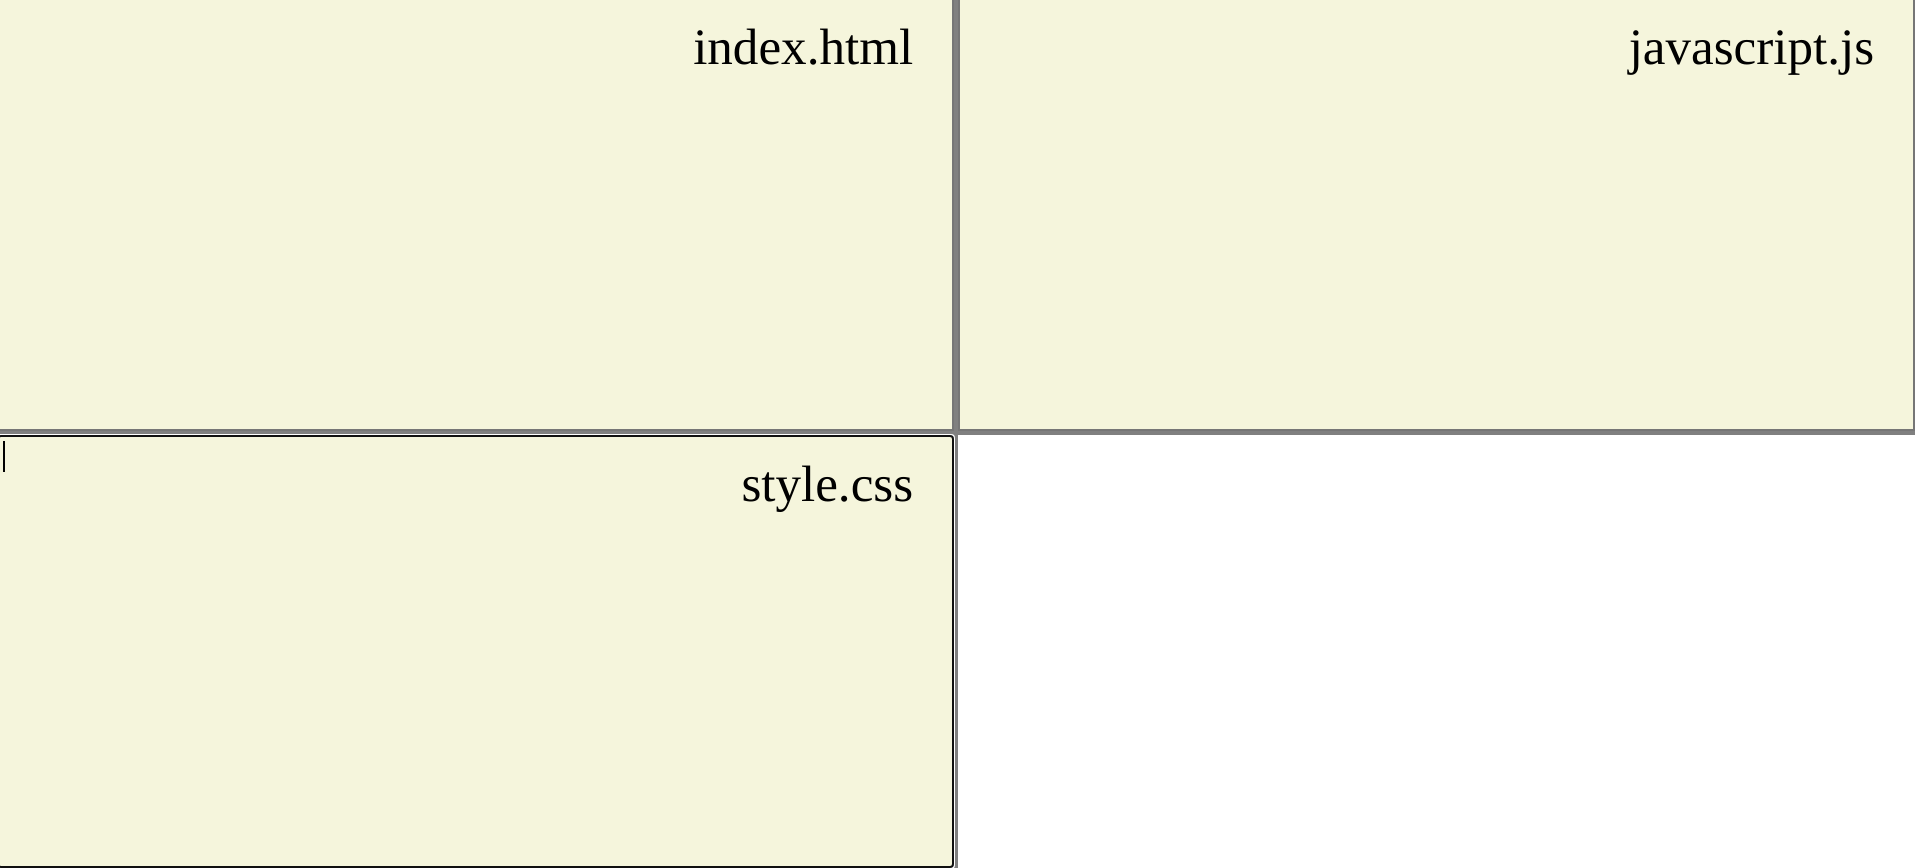
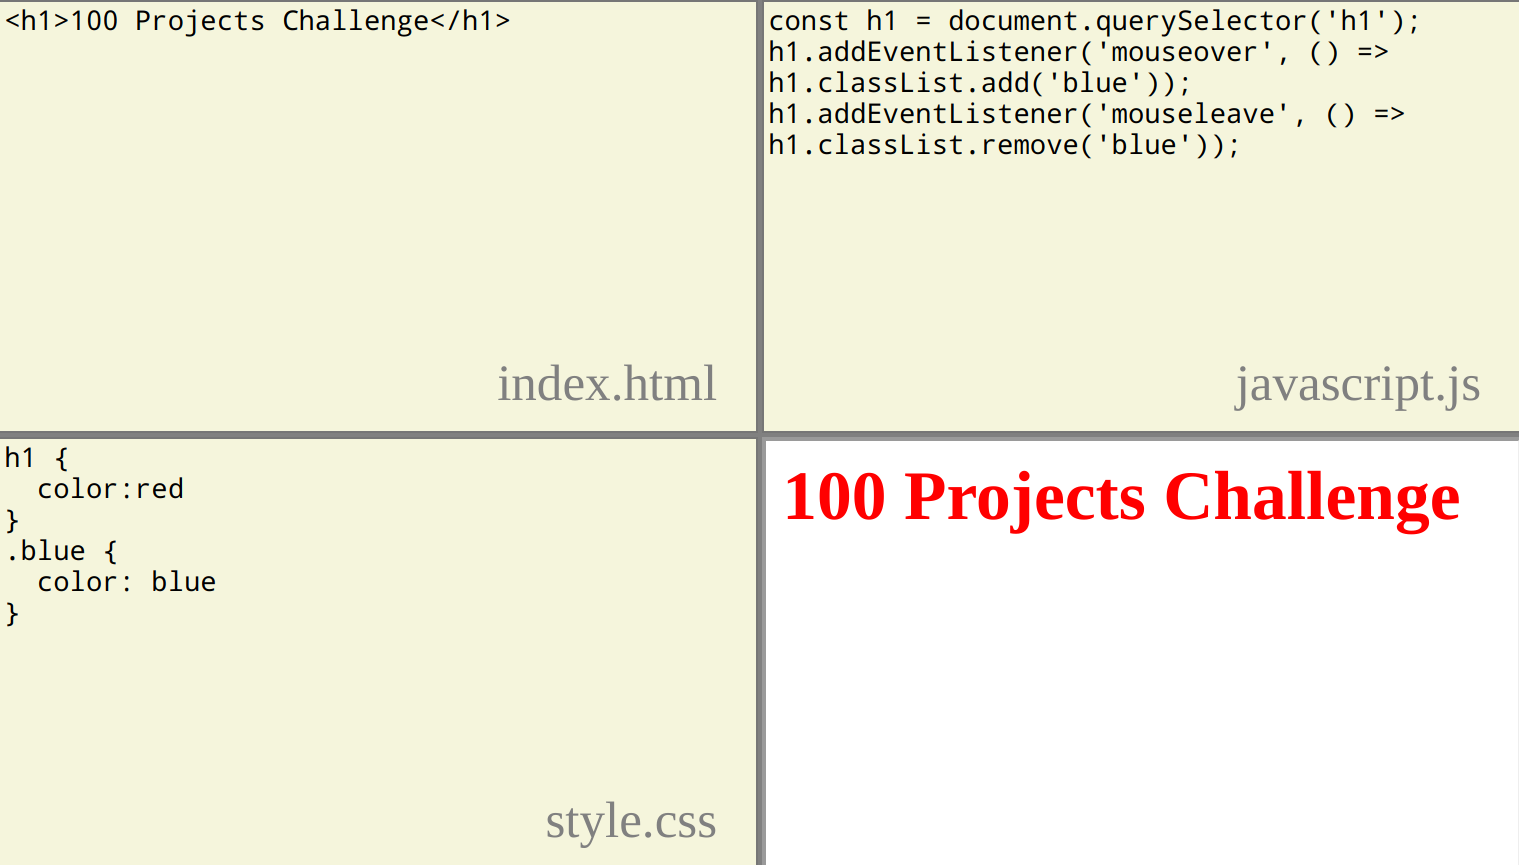
code editor complete

diff --git a/code-editor/script.js b/code-editor/script.js
@@ -1,4 +1,4 @@
-document.querySelectorAll('textarea').forEach((el) =>
+document.querySelectorAll('textarea').forEach((el) => {
   el.addEventListener('keydown', function (e) {
     if (e.key === 'Tab') {
       e.preventDefault();
@@ -14,5 +14,23 @@ document.querySelectorAll('textarea').forEach((el) =>
       this.selectionStart = nextSelectionStart;
       this.selectionEnd = nextSelectionStart;
     }
-  })
-);
+  });
+  el.addEventListener('keyup', updateIframe);
+});
+
+function updateIframe() {
+  const mountedPoint = document.querySelector('[data-iframe]');
+  const html = document.querySelector('.square-html>textarea').value;
+  const css = document.querySelector('.square-css>textarea').value;
+  const javascript = document.querySelector('.square-javascript>textarea')
+    .value;
+
+  const page = `${html}<style>${css}</style><script>${javascript}</script>`;
+
+  const iframe = document.createElement('iframe');
+  iframe.src = 'data:text/html;charset=utf-8,' + page;
+  mountedPoint.innerHTML = '';
+  mountedPoint.append(iframe);
+}
+
+updateIframe();

diff --git a/code-editor/index.html b/code-editor/index.html
@@ -22,13 +22,24 @@
   <body>
     <div id="app">
       <div class="square square-titled square-html">
-        <textarea></textarea>
+        <textarea><h1>100 Projects Challenge</h1></textarea>
       </div>
       <div class="square square-titled square-javascript">
-        <textarea></textarea>
+        <textarea>
+const h1 = document.querySelector('h1');
+h1.addEventListener('mouseover', () => h1.classList.add('blue'));
+h1.addEventListener('mouseleave', () => h1.classList.remove('blue'));</textarea
+        >
       </div>
       <div class="square square-titled square-css">
-        <textarea></textarea>
+        <textarea>
+h1 {
+  color:red
+} 
+.blue {
+  color: blue
+}</textarea
+        >
       </div>
       <div class="square" data-iframe></div>
     </div>

diff --git a/code-editor/style.css b/code-editor/style.css
@@ -32,8 +32,8 @@ body {
 .square-titled::after {
   position: absolute;
   right: 20px;
-  top: 10px;
-  color: black;
+  bottom: 10px;
+  color: gray;
   font-size: 25px;
 }
 

diff --git a/code-editor/style.scss b/code-editor/style.scss
@@ -29,8 +29,8 @@ body {
 .square-titled::after {
   position: absolute;
   right: 20px;
-  top: 10px;
-  color: black;
+  bottom: 10px;
+  color: gray;
   font-size: 25px;
 }
 
